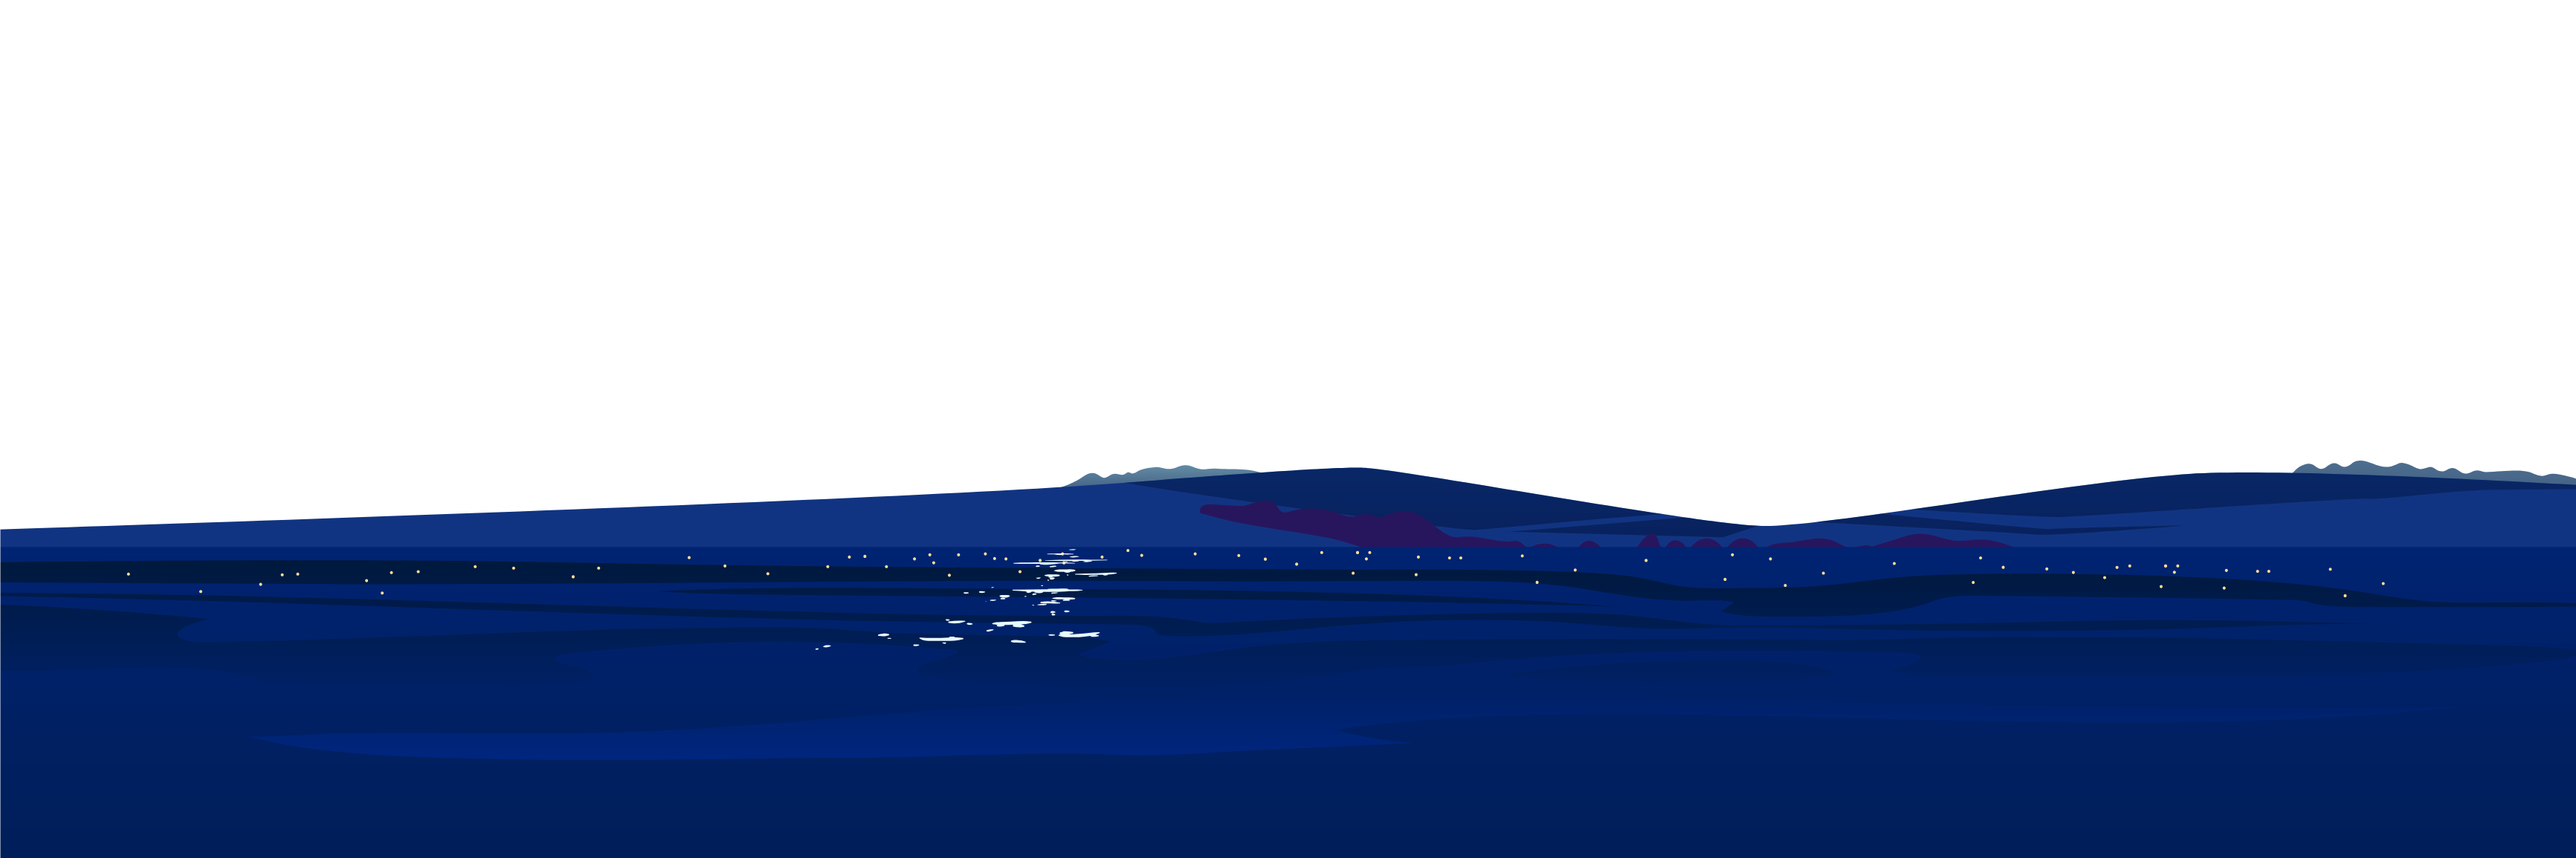
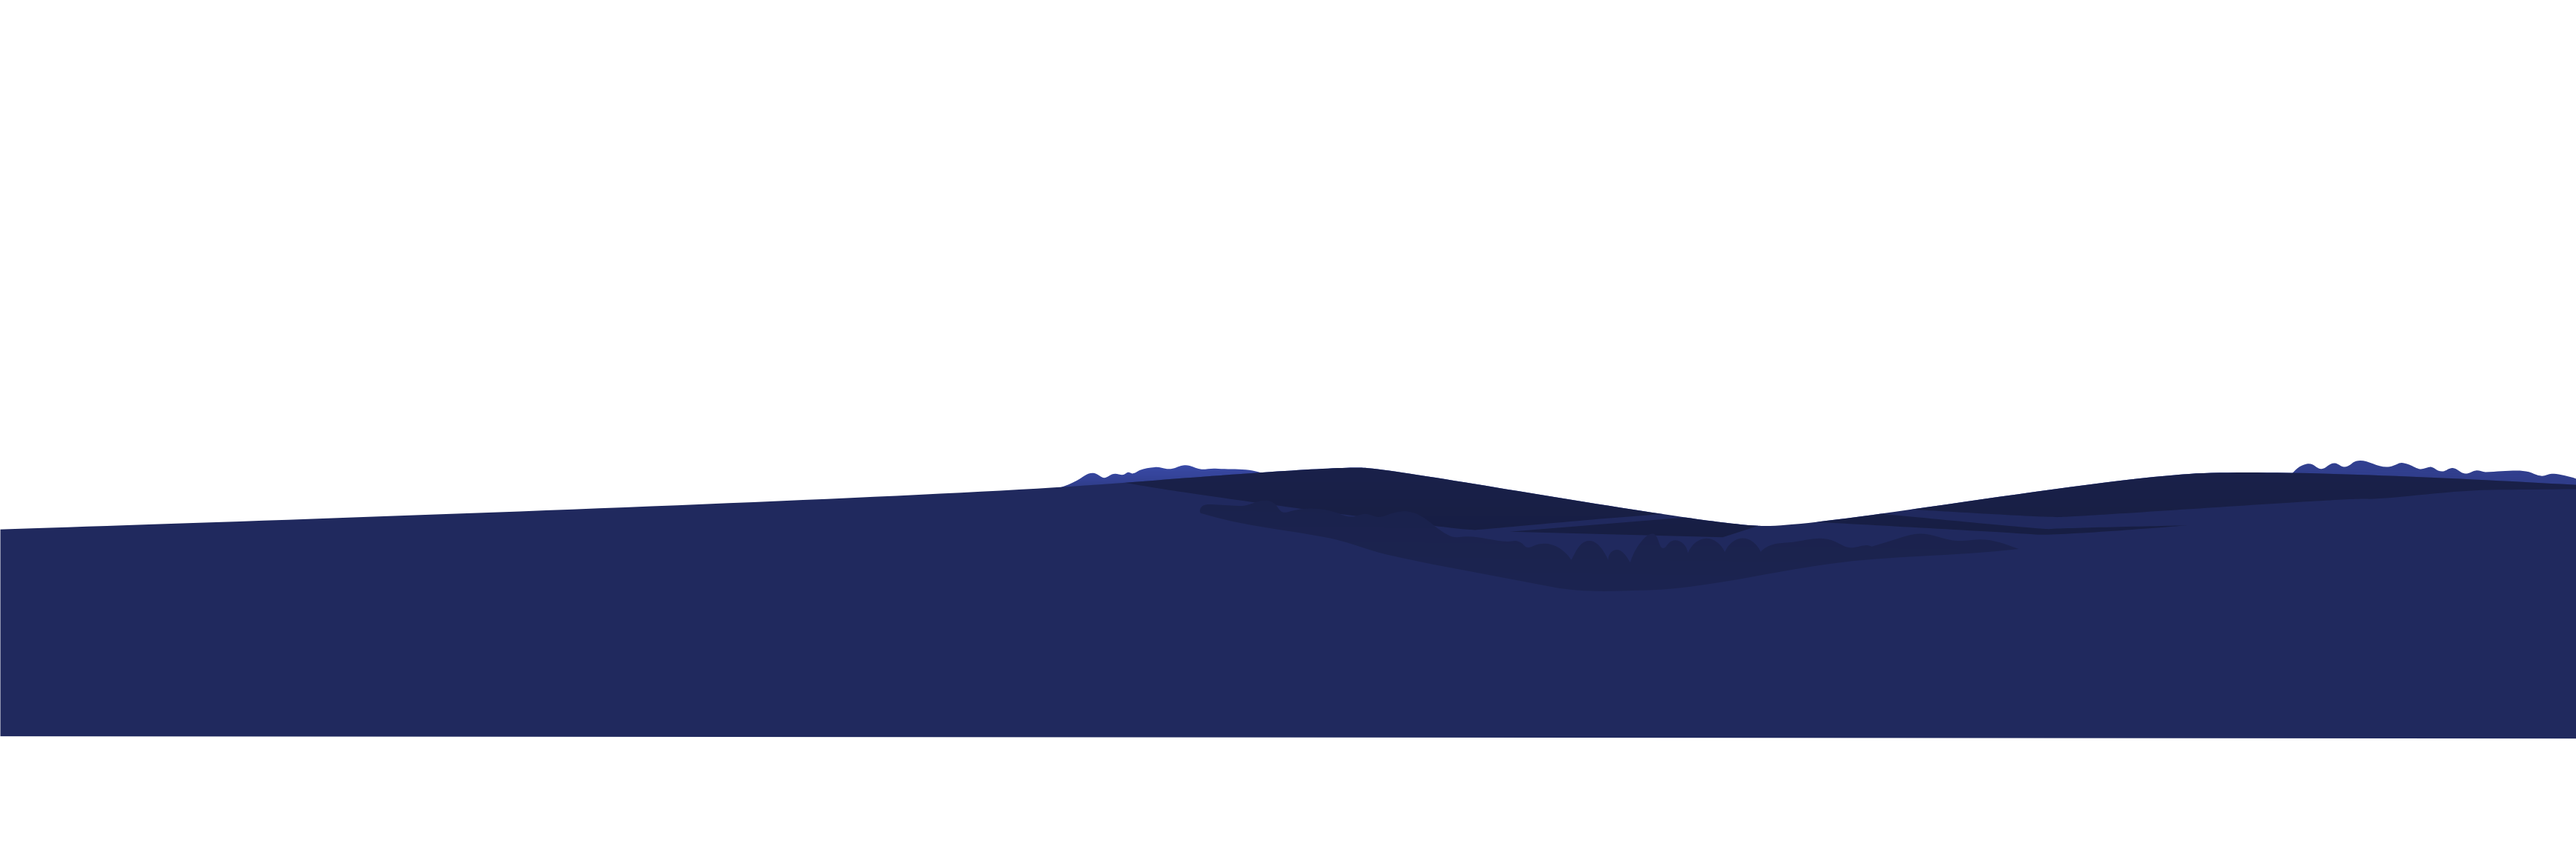
feat: improved home page!

diff --git a/src/routes/+page.svelte b/src/routes/+page.svelte
@@ -1,22 +1,13 @@
 <script lang="ts">
-  import { isTablet } from "$lib/Stores";
-  import { isMobile } from "./../lib/Stores.js";
   import Typography from "../components/Typography.svelte";
   import Marquee from "../components/Marquee.svelte";
   import { base } from "$app/paths";
-  import { onMount } from "svelte";
-  import gsap from "gsap";
+  import Spacer from "../components/Spacer.svelte";
 
-  const layers: number[] = [1, 2, 3, 4, 5, 6];
+  const layers: number[] = [0, 1, 2, 3, 4, 5, 6, 7];
   let y: number;
   let parallaxRefs: HTMLElement[] = [];
   let jobTitle: HTMLElement;
-
-  let textBottom: number;
-
-  onMount(() => {
-    textBottom = parseFloat(window.getComputedStyle(jobTitle).bottom);
-  });
 
   function handleResize() {
     window.scrollTo(0, 0);
@@ -32,43 +23,51 @@
           style="transform: translate(0,{y > 20 && index == 0
             ? -y
             : (-y * layer) / (layers.length - 1)}px)"
-          src={base + `/images/home/parallax/background-${index}.png`}
+          src={base + `/images/home/parallax/background-${layer}.png`}
           alt="parallax layer {layer}"
         />
       </div>
+
+      {#if index == parallaxRefs.length - 1}
+        <div
+          id="job-title-holder"
+          bind:this={jobTitle}
+          style="transform: translate(0,{y > 20 && index == 0
+            ? -y
+            : (-y * layer) / (layers.length - 1)}px)"
+        >
+          <Typography variant="h1" type="subtitle5">
+            {"Creative / Game Developer".toUpperCase()}
+          </Typography>
+
+          <div id="marquee-holder">
+            <Marquee repeat={20} duration={0}>
+              <Typography variant="h2" type="title3" style="opacity: 0.5;">
+                {@html "Portfolio \u00A0".toUpperCase()}
+              </Typography>
+            </Marquee>
+            <Marquee repeat={10} duration={20}>
+              <Typography
+                variant="h1"
+                type="extralarge-title"
+                color="var(--color-dark-lilac)"
+              >
+                {@html "Creative / Game Developer\u00A0".toUpperCase()}
+              </Typography>
+            </Marquee>
+            <Marquee repeat={20} duration={0}>
+              <Typography variant="h2" type="title3" style="opacity: 0.5;">
+                {@html "Portfolio \u00A0".toUpperCase()}
+              </Typography>
+            </Marquee>
+          </div>
+        </div>
+      {/if}
     {/each}
   </a>
 </section>
 
-<div id="job-title-holder" bind:this={jobTitle}>
-  <Typography variant="h1" type="subtitle5">
-    {"Creative / Game Developer".toUpperCase()}
-  </Typography>
-
-  <div id="marquee-holder">
-    <Marquee repeat={20} duration={0}>
-      <Typography variant="h2" type="title3" style="opacity: 0.5;">
-        {@html "Portfolio \u00A0".toUpperCase()}
-      </Typography>
-    </Marquee>
-    <Marquee repeat={10} duration={20}>
-      <Typography
-        variant="h1"
-        type="extralarge-title"
-        color="var(--color-dark-lilac)"
-      >
-        {@html "Creative / Game Developer\u00A0".toUpperCase()}
-      </Typography>
-    </Marquee>
-    <Marquee repeat={20} duration={0}>
-      <Typography variant="h2" type="title3" style="opacity: 0.5;">
-        {@html "Portfolio \u00A0".toUpperCase()}
-      </Typography>
-    </Marquee>
-  </div>
-</div>
-
-<svelte:window bind:scrollY={y} on:resize={handleResize}/>
+<svelte:window bind:scrollY={y} on:resize={handleResize} />
 
 <style lang="scss">
   @import "../styles/variables";
@@ -85,38 +84,33 @@
     display: flex;
     flex-direction: column;
     width: 100vw;
-    min-height: 100vh;
+    min-height: 75vh;
     align-items: center;
     justify-content: center;
-    background: linear-gradient(
-      to top,
-      var(--background-outer-color) 0%,
-      var(--color-parallax-main) 20%,
-      var(--color-parallax-main) 100%
-    );
-
     position: relative;
+
+    @media screen and (min-width: $breakpoint-medium) {
+      min-height: 100vh;
+    }
   }
 
   #job-title-holder {
     display: flex;
     flex-direction: column;
-    bottom: calc(100vh * 0.5);
     width: 100vw;
     align-items: center;
-    position: absolute;
-    z-index: 1;
+    margin-top: 650px;
 
-    @media screen and (min-width: 0px) and (max-width: $breakpoint-medium) {
-      bottom: calc(100vh * 0.8);
+    @media screen and (min-width: $breakpoint-medium) {
+      margin-top: 750px;
     }
 
-    @media screen and (min-width: 678px) and (max-width: 1165px) {
-      bottom: calc(100vh * 0.6);
+    @media screen and (min-width: 2001px) and (max-width: 3000px) {
+      margin-top: 1150px;
     }
 
-    @media screen and (min-width: 1166px) {
-      bottom: calc(100vh * 0.5);
+    @media screen and (min-width: 3001px) {
+      margin-top: 1250px;
     }
   }
 
@@ -131,13 +125,9 @@
     display: flex;
     top: 0;
     left: 0;
-    width: 1440px;
+    width: 100vw;
     height: auto;
     position: fixed;
-
-    @media screen and (min-width: $breakpoint-medium) {
-      width: 100vw;
-    }
   }
 
   #parallax-container img {
@@ -167,8 +157,26 @@
     position: absolute;
 
     @media screen and (min-width: 0px) and (max-width: $breakpoint-medium) {
-      width: 1000px;
-      left: -500px;
+      width: 1200px;
+      left: -600px;
+      transform: translate(50%, 0);
+    }
+
+    @media screen and (min-width: $breakpoint-medium) and (max-width: 2000px) {
+      width: 2000px;
+      left: -1000px;
+      transform: translate(50%, 0);
+    }
+
+    @media screen and (min-width: 2001px) and (max-width: 3000px) {
+      width: 3000px;
+      left: -1500px;
+      transform: translate(50%, 0);
+    }
+
+    @media screen and (min-width: 3001) {
+      width: 3440px;
+      left: -1720px;
       transform: translate(50%, 0);
     }
   }

diff --git a/static/global.css b/static/global.css
@@ -20,7 +20,7 @@
   --base-fontsize: 10 !important;
   --base-design-width: 375;
 
-  --color-parallax-main: #26113b;
+  --color-parallax-main: #211a3b;
 
   @media (min-width: 675px) {
     --base-fontsize: 10 !important;
